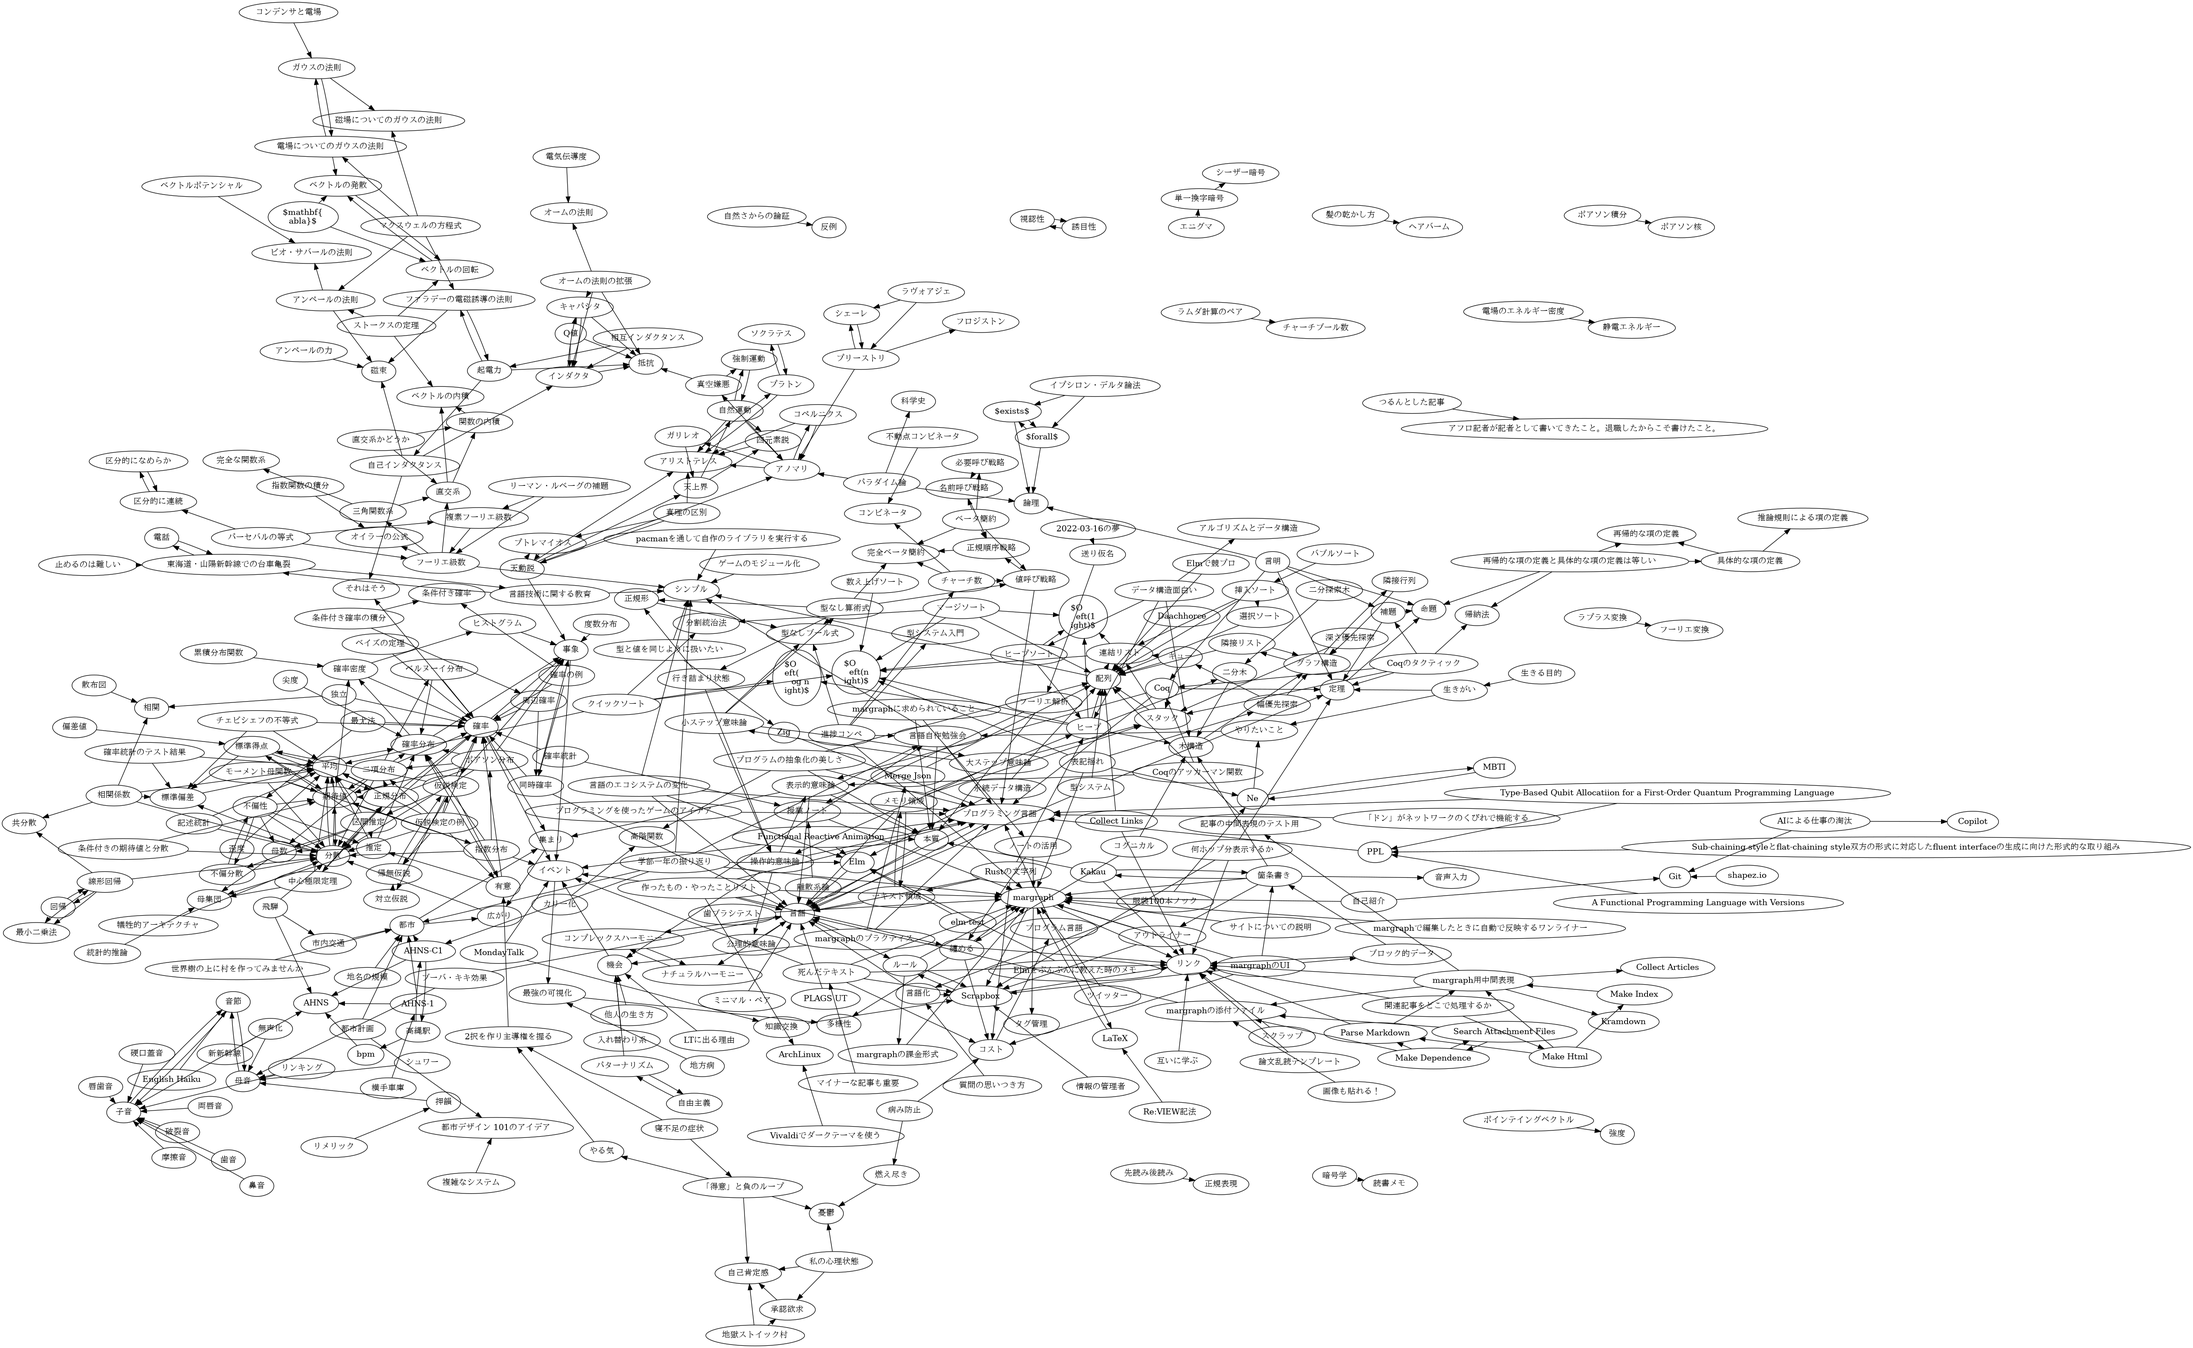
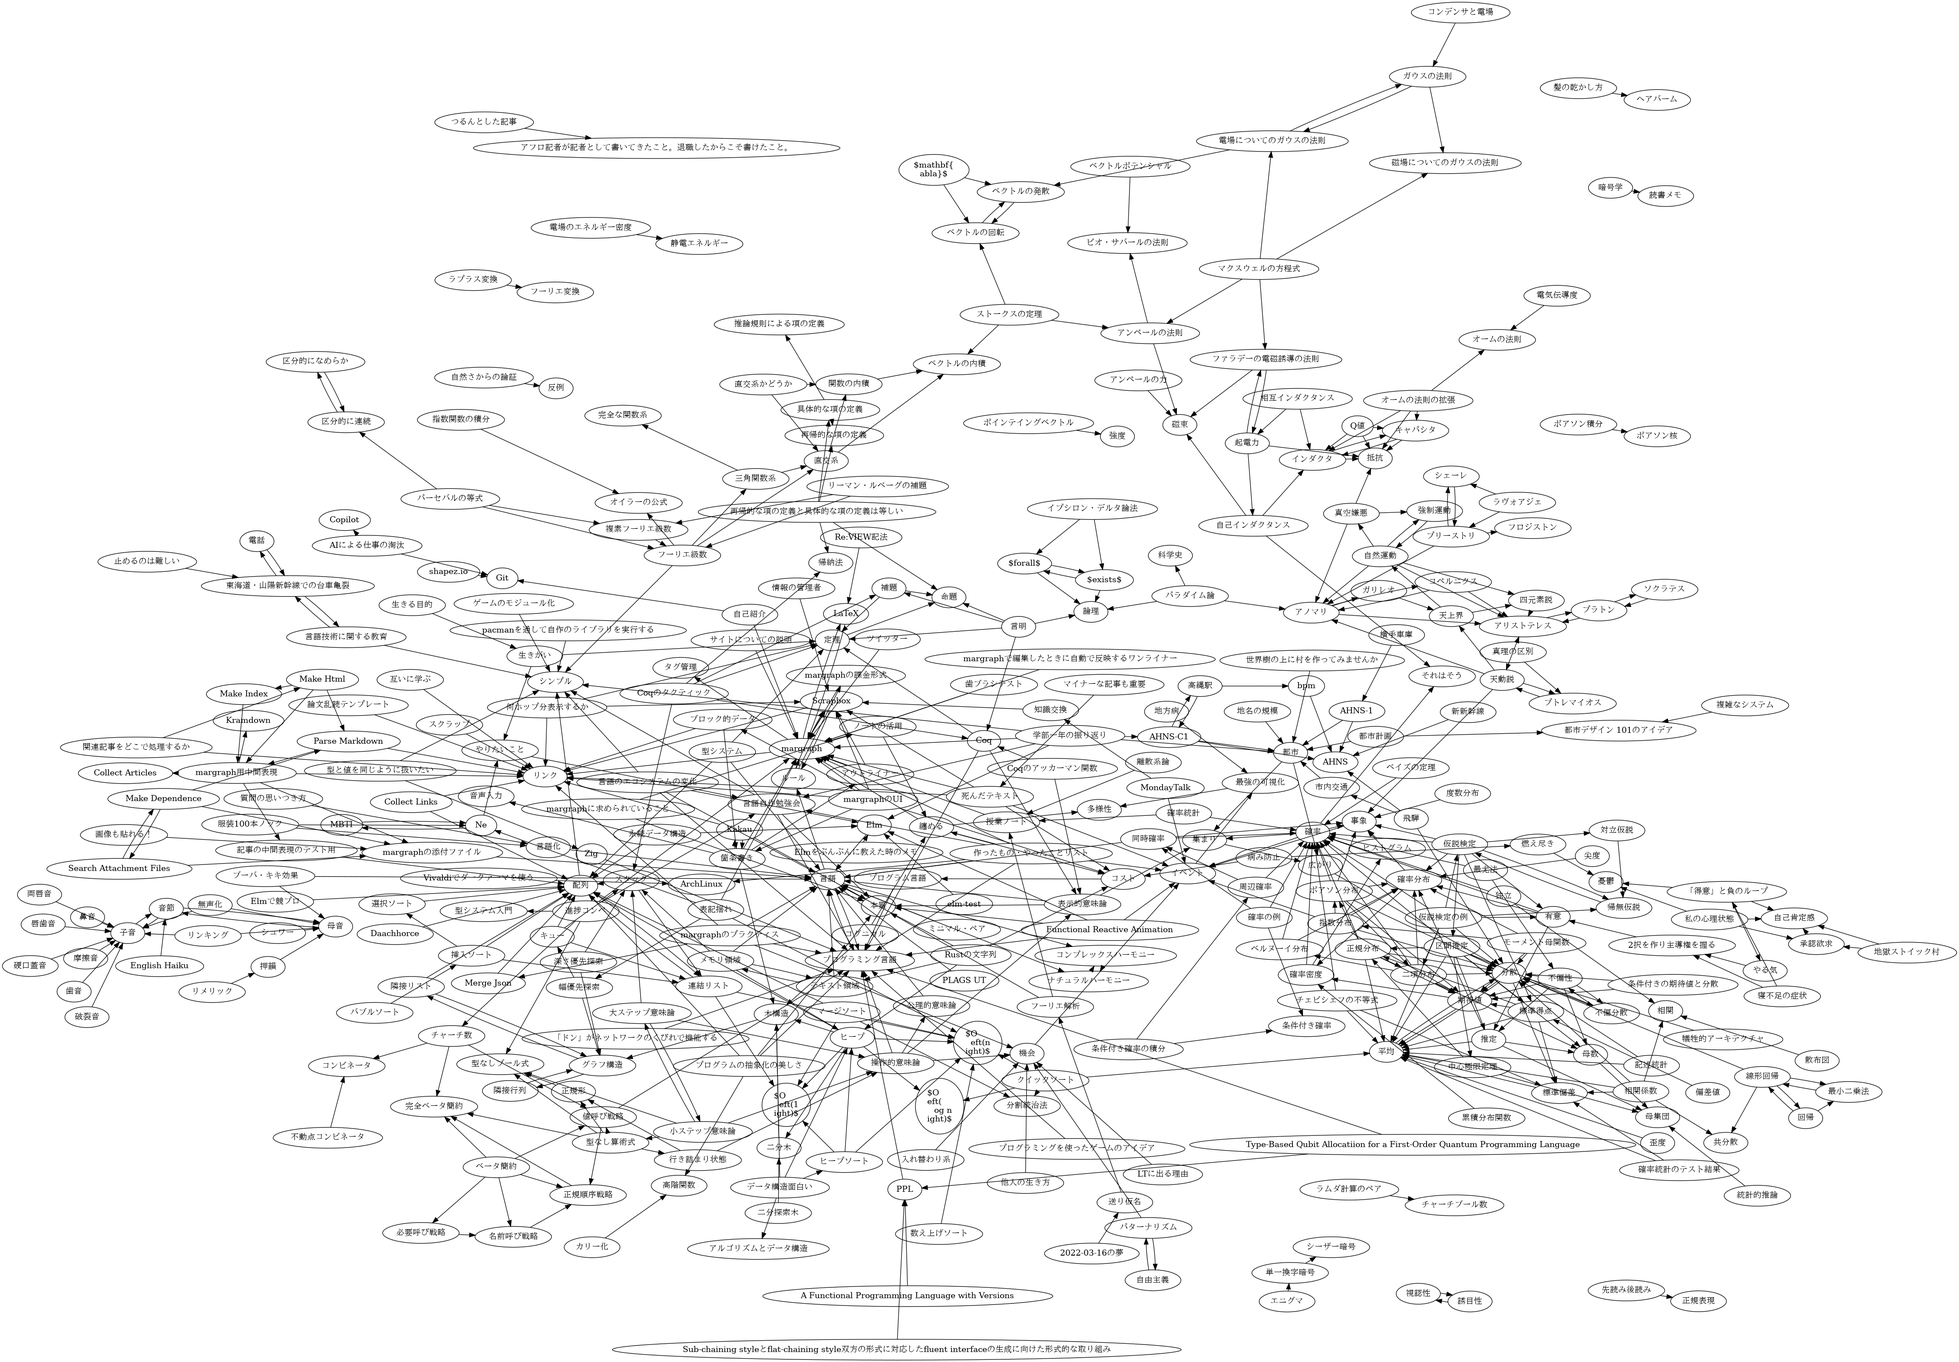
deploy: 886fa3efd73b295c4645beeba23bef2879b63f04

diff --git a/other/gengoka.html b/other/gengoka.html
@@ -38,7 +38,11 @@
   <li>他人は他人で、また少し違った意味を感じるのでは？
     <ul>
       <li>上手く擦り合わせる行為が必要なのかも</li>
-      <li><a href="../long-tweets/2021-11-02.html">Scrapbox</a>の<a href="../other/language.html">言語</a>化コミュニティ(だっけ)は、これをやってる</li>
+      <li>複数人の認識をすり合わせることで、新たな発見に繋げられるかも？
+        <ul>
+          <li>たとえば？</li>
+        </ul>
+      </li>
     </ul>
   </li>
 </ul>
@@ -276,90 +280,6 @@
                   <div class="card-body">
                     <h5 class="card-title fs-6"><a href="../scraps/shifting-language-eco-system.html">言語のエコシステムの変化</a></h5>
                     <p class="card-text">https://izumisy.work/entry/2021...</p>
-                  </div>
-                </div>
-              </div>
-            
-          </div>
-        
-          <div class="row flex-nowrap overflow-auto">
-            <div class="col-4">
-              <div class="card h-100">
-                <div class="card-body">
-                  <h5 class="card-title fs-6"><a href="../long-tweets/2021-11-02.html">Scrapbox</a></h5>
-                  <p class="card-text">Scrapboxの哲学みたいなページを読んでるけど、ページ間の...</p>
-                </div>
-              </div>
-            </div>
-            
-              <div class="col-4">
-                <div class="card h-100">
-                  <div class="card-body">
-                    <h5 class="card-title fs-6"><a href="../margraph/margraph-junban.html">リンク</a></h5>
-                    <p class="card-text">- 中間表現に分けた後でリンクしないといけない   - リンク...</p>
-                  </div>
-                </div>
-              </div>
-            
-              <div class="col-4">
-                <div class="card h-100">
-                  <div class="card-body">
-                    <h5 class="card-title fs-6"><a href="../margraph/01-note.html">margraph</a></h5>
-                    <p class="card-text">named by sizumita - Scrapboxがgo...</p>
-                  </div>
-                </div>
-              </div>
-            
-              <div class="col-4">
-                <div class="card h-100">
-                  <div class="card-body">
-                    <h5 class="card-title fs-6"><a href="../margraph/margraph-ui.html">margraphのUI</a></h5>
-                    <p class="card-text">- 情報密度は上げたい - Scrapboxではリンクやタグを...</p>
-                  </div>
-                </div>
-              </div>
-            
-              <div class="col-4">
-                <div class="card h-100">
-                  <div class="card-body">
-                    <h5 class="card-title fs-6"><a href="../margraph/design/201-num-of-hops.html">何ホップ分表示するか</a></h5>
-                    <p class="card-text">関連項目として、何ホップ分表示させるか - Scrapboxで...</p>
-                  </div>
-                </div>
-              </div>
-            
-              <div class="col-4">
-                <div class="card h-100">
-                  <div class="card-body">
-                    <h5 class="card-title fs-6"><a href="../other/dead-text.html">死んだテキスト</a></h5>
-                    <p class="card-text">- Scrapboxとかで特に避けられるもの   - http...</p>
-                  </div>
-                </div>
-              </div>
-            
-              <div class="col-4">
-                <div class="card h-100">
-                  <div class="card-body">
-                    <h5 class="card-title fs-6"><a href="../other/knowledge-exchange.html">知識交換</a></h5>
-                    <p class="card-text">- あるAについての知識を持った人と、Bの知識を持った人で、互...</p>
-                  </div>
-                </div>
-              </div>
-            
-              <div class="col-4">
-                <div class="card h-100">
-                  <div class="card-body">
-                    <h5 class="card-title fs-6"><a href="../other/outliner.html">アウトライナー</a></h5>
-                    <p class="card-text">- 章立てとかの全体的な構造を定めてから、細部の文章を追加して...</p>
-                  </div>
-                </div>
-              </div>
-            
-              <div class="col-4">
-                <div class="card h-100">
-                  <div class="card-body">
-                    <h5 class="card-title fs-6"><a href="../scraps/admin-of-infomation.html">情報の管理者</a></h5>
-                    <p class="card-text">- Scrapboxのような情報を共有するツールを組織で使おう...</p>
                   </div>
                 </div>
               </div>

diff --git a/long-tweets/2021-11-02.html b/long-tweets/2021-11-02.html
@@ -482,36 +482,6 @@
             <div class="col-4">
               <div class="card h-100">
                 <div class="card-body">
-                  <h5 class="card-title fs-6"><a href="../other/gengoka.html">言語化</a></h5>
-                  <p class="card-text">- 今まで曖昧に捉えていたモノや概念を、言葉にして書き出すこと...</p>
-                </div>
-              </div>
-            </div>
-            
-              <div class="col-4">
-                <div class="card h-100">
-                  <div class="card-body">
-                    <h5 class="card-title fs-6"><a href="../other/clothes.html">服装100本ノック</a></h5>
-                    <p class="card-text">お洒落な服装を見て、どうしてそれがお洒落に見えるのかを言語化す...</p>
-                  </div>
-                </div>
-              </div>
-            
-              <div class="col-4">
-                <div class="card h-100">
-                  <div class="card-body">
-                    <h5 class="card-title fs-6"><a href="../scraps/question.html">質問の思いつき方</a></h5>
-                    <p class="card-text">どうやったら良い質問をできるか、みたいな記事 https://...</p>
-                  </div>
-                </div>
-              </div>
-            
-          </div>
-        
-          <div class="row flex-nowrap overflow-auto">
-            <div class="col-4">
-              <div class="card h-100">
-                <div class="card-body">
                   <h5 class="card-title fs-6"><a href="../other/knowledge-exchange.html">知識交換</a></h5>
                   <p class="card-text">- あるAについての知識を持った人と、Bの知識を持った人で、互...</p>
                 </div>

diff --git a/other/rule.html b/other/rule.html
@@ -162,15 +162,6 @@
               <div class="col-4">
                 <div class="card h-100">
                   <div class="card-body">
-                    <h5 class="card-title fs-6"><a href="../other/gengoka.html">言語化</a></h5>
-                    <p class="card-text">- 今まで曖昧に捉えていたモノや概念を、言葉にして書き出すこと...</p>
-                  </div>
-                </div>
-              </div>
-            
-              <div class="col-4">
-                <div class="card h-100">
-                  <div class="card-body">
                     <h5 class="card-title fs-6"><a href="../other/knowledge-exchange.html">知識交換</a></h5>
                     <p class="card-text">- あるAについての知識を持った人と、Bの知識を持った人で、互...</p>
                   </div>
@@ -434,6 +425,15 @@
                   <div class="card-body">
                     <h5 class="card-title fs-6"><a href="../math/probability-statistics/13-joint-probability.html">同時確率</a></h5>
                     <p class="card-text">- 結合確率とも - $P(A) \cap P(B)$ のよう...</p>
+                  </div>
+                </div>
+              </div>
+            
+              <div class="col-4">
+                <div class="card h-100">
+                  <div class="card-body">
+                    <h5 class="card-title fs-6"><a href="../other/gengoka.html">言語化</a></h5>
+                    <p class="card-text">- 今まで曖昧に捉えていたモノや概念を、言葉にして書き出すこと...</p>
                   </div>
                 </div>
               </div>

diff --git a/margraph/design/201-num-of-hops.html b/margraph/design/201-num-of-hops.html
@@ -152,15 +152,6 @@
               <div class="col-4">
                 <div class="card h-100">
                   <div class="card-body">
-                    <h5 class="card-title fs-6"><a href="../../other/gengoka.html">言語化</a></h5>
-                    <p class="card-text">- 今まで曖昧に捉えていたモノや概念を、言葉にして書き出すこと...</p>
-                  </div>
-                </div>
-              </div>
-            
-              <div class="col-4">
-                <div class="card h-100">
-                  <div class="card-body">
                     <h5 class="card-title fs-6"><a href="../../other/knowledge-exchange.html">知識交換</a></h5>
                     <p class="card-text">- あるAについての知識を持った人と、Bの知識を持った人で、互...</p>
                   </div>

diff --git a/other/knowledge-exchange.html b/other/knowledge-exchange.html
@@ -167,15 +167,6 @@
               <div class="col-4">
                 <div class="card h-100">
                   <div class="card-body">
-                    <h5 class="card-title fs-6"><a href="../other/gengoka.html">言語化</a></h5>
-                    <p class="card-text">- 今まで曖昧に捉えていたモノや概念を、言葉にして書き出すこと...</p>
-                  </div>
-                </div>
-              </div>
-            
-              <div class="col-4">
-                <div class="card h-100">
-                  <div class="card-body">
                     <h5 class="card-title fs-6"><a href="../other/outliner.html">アウトライナー</a></h5>
                     <p class="card-text">- 章立てとかの全体的な構造を定めてから、細部の文章を追加して...</p>
                   </div>

diff --git a/scraps/question.html b/scraps/question.html
@@ -118,15 +118,6 @@
               <div class="col-4">
                 <div class="card h-100">
                   <div class="card-body">
-                    <h5 class="card-title fs-6"><a href="../long-tweets/2021-11-02.html">Scrapbox</a></h5>
-                    <p class="card-text">Scrapboxの哲学みたいなページを読んでるけど、ページ間の...</p>
-                  </div>
-                </div>
-              </div>
-            
-              <div class="col-4">
-                <div class="card h-100">
-                  <div class="card-body">
                     <h5 class="card-title fs-6"><a href="../other/clothes.html">服装100本ノック</a></h5>
                     <p class="card-text">お洒落な服装を見て、どうしてそれがお洒落に見えるのかを言語化す...</p>
                   </div>

diff --git a/margraph/01-note.html b/margraph/01-note.html
@@ -160,15 +160,6 @@
               <div class="col-4">
                 <div class="card h-100">
                   <div class="card-body">
-                    <h5 class="card-title fs-6"><a href="../other/gengoka.html">言語化</a></h5>
-                    <p class="card-text">- 今まで曖昧に捉えていたモノや概念を、言葉にして書き出すこと...</p>
-                  </div>
-                </div>
-              </div>
-            
-              <div class="col-4">
-                <div class="card h-100">
-                  <div class="card-body">
                     <h5 class="card-title fs-6"><a href="../other/knowledge-exchange.html">知識交換</a></h5>
                     <p class="card-text">- あるAについての知識を持った人と、Bの知識を持った人で、互...</p>
                   </div>

diff --git a/margraph/margraph-junban.html b/margraph/margraph-junban.html
@@ -132,15 +132,6 @@
               <div class="col-4">
                 <div class="card h-100">
                   <div class="card-body">
-                    <h5 class="card-title fs-6"><a href="../other/gengoka.html">言語化</a></h5>
-                    <p class="card-text">- 今まで曖昧に捉えていたモノや概念を、言葉にして書き出すこと...</p>
-                  </div>
-                </div>
-              </div>
-            
-              <div class="col-4">
-                <div class="card h-100">
-                  <div class="card-body">
                     <h5 class="card-title fs-6"><a href="../other/knowledge-exchange.html">知識交換</a></h5>
                     <p class="card-text">- あるAについての知識を持った人と、Bの知識を持った人で、互...</p>
                   </div>

diff --git a/margraph/margraph-ui.html b/margraph/margraph-ui.html
@@ -157,15 +157,6 @@
               <div class="col-4">
                 <div class="card h-100">
                   <div class="card-body">
-                    <h5 class="card-title fs-6"><a href="../other/gengoka.html">言語化</a></h5>
-                    <p class="card-text">- 今まで曖昧に捉えていたモノや概念を、言葉にして書き出すこと...</p>
-                  </div>
-                </div>
-              </div>
-            
-              <div class="col-4">
-                <div class="card h-100">
-                  <div class="card-body">
                     <h5 class="card-title fs-6"><a href="../other/knowledge-exchange.html">知識交換</a></h5>
                     <p class="card-text">- あるAについての知識を持った人と、Bの知識を持った人で、互...</p>
                   </div>

diff --git a/other/dead-text.html b/other/dead-text.html
@@ -153,15 +153,6 @@
               <div class="col-4">
                 <div class="card h-100">
                   <div class="card-body">
-                    <h5 class="card-title fs-6"><a href="../other/gengoka.html">言語化</a></h5>
-                    <p class="card-text">- 今まで曖昧に捉えていたモノや概念を、言葉にして書き出すこと...</p>
-                  </div>
-                </div>
-              </div>
-            
-              <div class="col-4">
-                <div class="card h-100">
-                  <div class="card-body">
                     <h5 class="card-title fs-6"><a href="../other/knowledge-exchange.html">知識交換</a></h5>
                     <p class="card-text">- あるAについての知識を持った人と、Bの知識を持った人で、互...</p>
                   </div>

diff --git a/other/outliner.html b/other/outliner.html
@@ -319,15 +319,6 @@
               <div class="col-4">
                 <div class="card h-100">
                   <div class="card-body">
-                    <h5 class="card-title fs-6"><a href="../other/gengoka.html">言語化</a></h5>
-                    <p class="card-text">- 今まで曖昧に捉えていたモノや概念を、言葉にして書き出すこと...</p>
-                  </div>
-                </div>
-              </div>
-            
-              <div class="col-4">
-                <div class="card h-100">
-                  <div class="card-body">
                     <h5 class="card-title fs-6"><a href="../other/knowledge-exchange.html">知識交換</a></h5>
                     <p class="card-text">- あるAについての知識を持った人と、Bの知識を持った人で、互...</p>
                   </div>

diff --git a/scraps/admin-of-infomation.html b/scraps/admin-of-infomation.html
@@ -158,15 +158,6 @@
               <div class="col-4">
                 <div class="card h-100">
                   <div class="card-body">
-                    <h5 class="card-title fs-6"><a href="../other/gengoka.html">言語化</a></h5>
-                    <p class="card-text">- 今まで曖昧に捉えていたモノや概念を、言葉にして書き出すこと...</p>
-                  </div>
-                </div>
-              </div>
-            
-              <div class="col-4">
-                <div class="card h-100">
-                  <div class="card-body">
                     <h5 class="card-title fs-6"><a href="../other/knowledge-exchange.html">知識交換</a></h5>
                     <p class="card-text">- あるAについての知識を持った人と、Bの知識を持った人で、互...</p>
                   </div>
